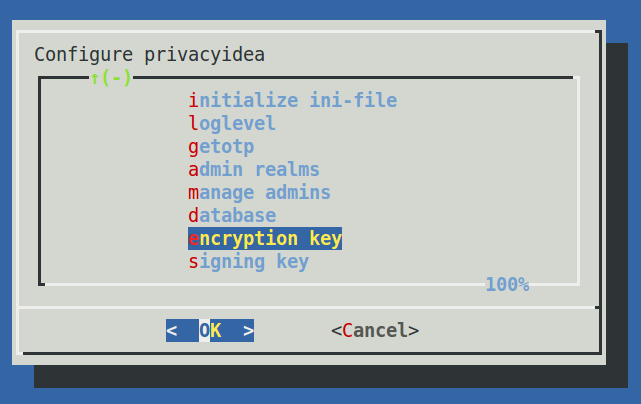
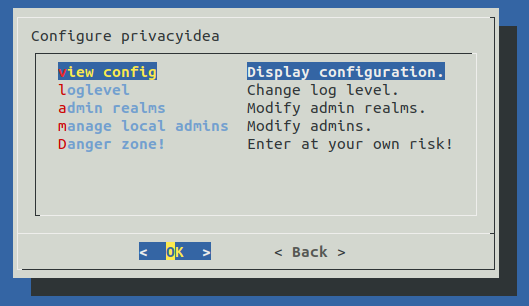
pi-appliance doc update

Changed region(s): [[0.0, 0.0, 0.9981, 0.9706]]

diff --git a/doc/configuration/privacyidea-appliance.rst b/doc/configuration/privacyidea-appliance.rst
@@ -9,7 +9,7 @@ privacyIDEA offers an appliance tool to manage your token administrators, RADIUS
 also setup MySQL master-master replication.
 It can be found in a Github repository [#applianceGithub]_.
 
-This tool is supposed to run on Ubuntu 16.04 LTS.
+This tool is supposed to run on Ubuntu 16.04 LTS or 18.04 LTS.
 You can find a ready install ISO at another Github reposity [#applianceISO]_.
 
 .. note:: The ready made Ubuntu package for the appliance tool is only available with a Service Level Agreement from
@@ -23,7 +23,7 @@ run the command::
 This will bring you to this start screen.
 
 .. figure:: images/appliance/start-screen.png
-   :scale: 50 %
+   :scale: 80 %
 
    Start screen of the appliance setup tool.
 
@@ -31,18 +31,18 @@ You can configure privacyidea settings, the log level, administrators, encryptio
 much more. You can configure the webserver settings and RADIUS clients.
 
 .. figure:: images/appliance/configure-privacyidea.png
-   :scale: 40 %   
+   :width: 400px
 
    Configure privacyidea
 
 .. figure:: images/appliance/manage-admins.png
-   :scale: 40 %   
+   :width: 400px
 
    You can create new token administrators, delete them and change
    their passwords.
 
 .. figure:: images/appliance/manage-radius-clients.png
-   :scale: 40 %   
+   :width: 400px
 
    In the FreeRADIUS settings you can create and delete RADIUS
    clients.
@@ -73,7 +73,7 @@ Furthermore if you are running FreeRADIUS the backup also contains
 the `/etc/freeradius/clients.conf` file.
 
 .. figure:: images/appliance/backup1.png
-   :scale: 50%
+   :width: 400px
 
 Schedulded backup
 ~~~~~~~~~~~~~~~~~
@@ -83,7 +83,7 @@ when a scheduled backup should be performed. This information is
 written to the file `/etc/crontab`.
 
 .. figure:: images/appliance/backup2.png
-   :scale: 50%
+   :width: 400px
 
    Scheduled backup
 
@@ -112,13 +112,55 @@ Restore
 The entry `View Backups` will list all the backups available.
 
 .. figure:: images/appliance/backup3.png
-   :scale: 50%
+   :width: 550px
 
    All available backups
 
 You can select a backup and you are asked if you want to restore the data. 
 
 .. warning:: Existing data is overwritten and will be lost.
+
+.. _database:
+
+Database: Setup Redundancy
+..........................
+
+The appliance-tool is also capable of setting up a redundant setup, between
+two privacyIDEA nodes. For the setup, the privacyIDEA slave instance has to
+be setup and running with identical software than the master instance. The
+appliance-tool uses a tinc-tunnel to share the configuration and the database.
+
+.. figure:: images/appliance/database.png
+   :width: 400px
+
+.. note:: The redundancy requires to setup a tinc VPN connection between
+   the nodes and an SSH root login. Make sure the services are installed.
+
+.. note:: Keep in mind that the log files and backups are also synchronized between
+   the nodes. The setup of log rotation and backup is usually only neccessary on
+   the primary instance.
+
+.. warning:: Existing data on the slave node is overwritten and will be lost.
+
+.. figure:: images/appliance/redundancy-successful.png
+   :width: 450px
+
+.. _pi-appliance_updates:
+
+Updates
+.......
+
+In this menu, you can setup cronjobs for automatic updates which is seldomly
+used in productive setups.
+
+.. _pi-appliance_audit:
+
+Audit Rotation
+..............
+
+In the `Audit Rotation` menu, you can setup cronjobs for the audit rotation conditioned
+by age or the number of entries. The syntax follows the crontab syntax as explained
+in :ref:`backup_and_restore`.
 
 
 .. [#applianceGithub] https://github.com/NetKnights-GmbH/privacyidea-appliance
